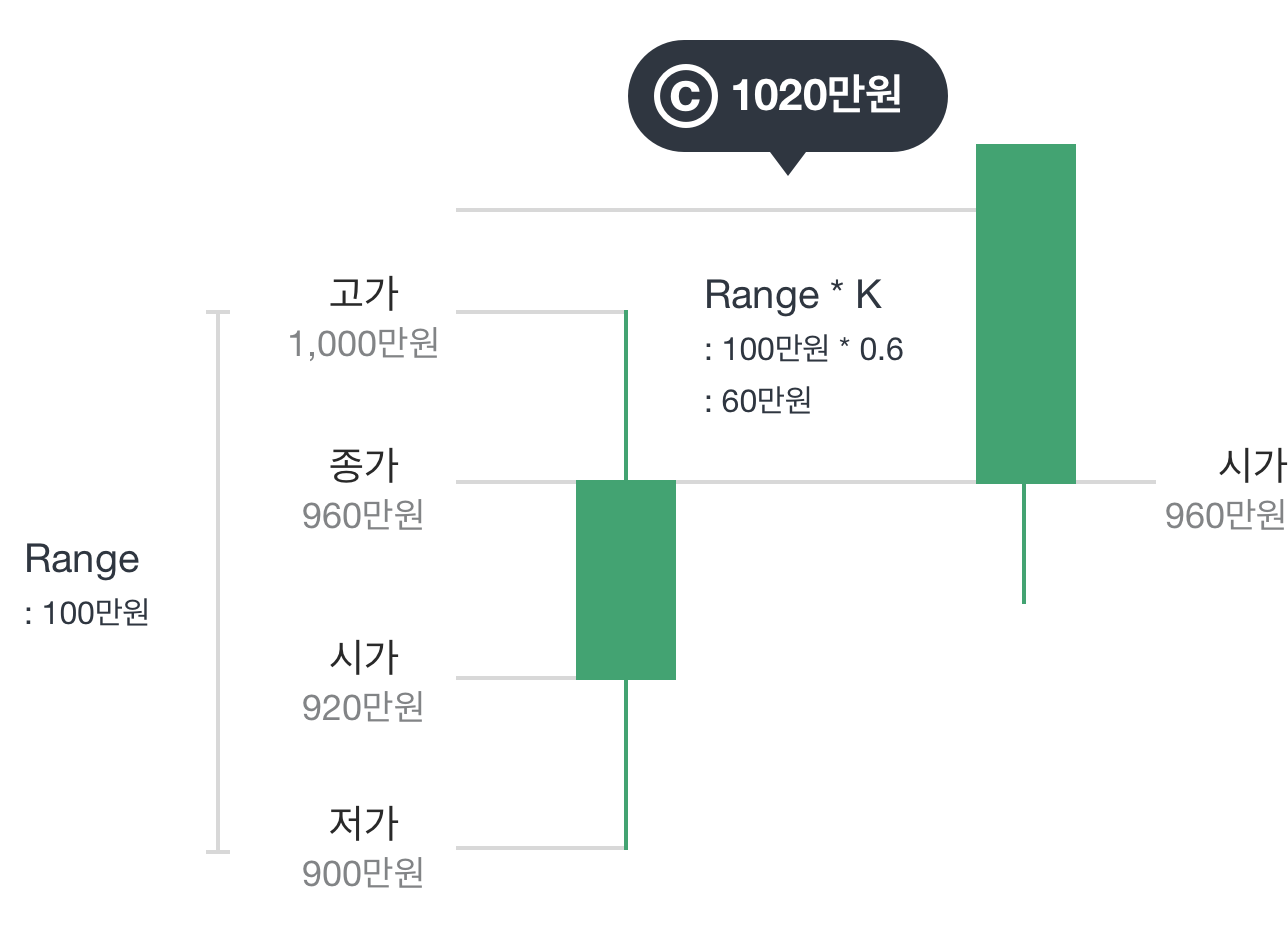
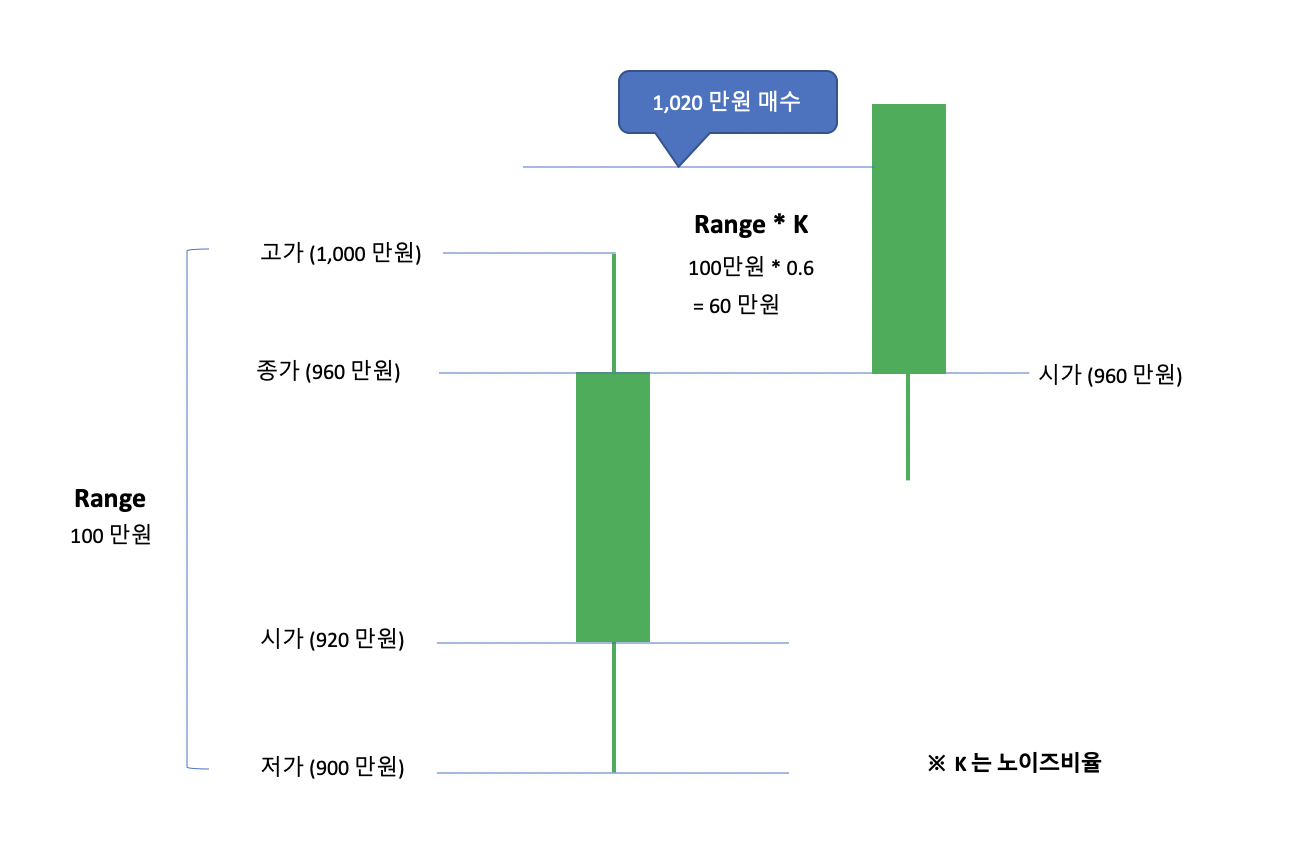
rebuilding site 2020년 7월 19일 일요일 14시 12분 38초 JST

diff --git a/post/indicator_vbi/index.html b/post/indicator_vbi/index.html
@@ -60,7 +60,7 @@
   "headline": "변동성돌파지표(프리미엄사용자무료)",
   "description" : "변동성 돌파 지표를 프리미엄 사용자에 한해서 무료로 배포합니다.\n변동성 돌파 지표란 전설적인 트레이더 래리 윌리엄스(Larry R. Williams)의 변동성 돌파 전략을 기본으로 개발한 지표입니다.\n",
   "inLanguage" : "ko",
-  "wordCount":  253 ,
+  "wordCount":  316 ,
   "datePublished" : "2020-07-12T16:04:56",
   "dateModified" : "2020-07-12T16:04:56",
   "image" : "https:\/\/tvextbot.github.io\/img\/avatar-icon.png",
@@ -329,27 +329,32 @@ if (!doNotTrack) {
     <h5 class="alert-heading"><i class="fa fa-comment"></i> 유의사항</h5>
     지표 사용에 의해서 발생한 매매손실에 대해서는 일체 책임을 지지 않으니 유의하여 주시면 감사하겠습니다.
 </div>
-<p>변동성 돌파 전략은 일일 단위로 일정 수준 이상의 범위를 뛰어넘는 강한 상승세를 돌파 신호로 상승하는 추세를 따라가며 일 단위로 빠르게 수익을 실현하는 단기매매 전략입니다.<br><br>
+<p>변동성 돌파 전략은 일일 단위로 일정 수준 이상의 범위를 뛰어넘는 강한 상승세를 돌파 신호로 상승하는 추세를 따라가며 일 단위로 빠르게 수익을 실현하는 <span class="text-danger h5"><strong>단기매매 전략</strong></span>입니다.<br><br>
 변동성 돌파 전략은 다음과 같은 간단한 규칙으로 작동합니다.<br><br>
-① 전날의 일봉 기준 range(= 전일 고가 – 전일 저가)를 계산한다.<br>
-② 당일 장중 가격이 당일시가 + (전일 range 값 * K)을 넘을 경우 ‘매수’한다. (K = 자체조정값)<br>
-③ 익일 시가 기준으로 지정가 &lsquo;매도&rsquo;한다.<br>
+① 전날의 일봉 기준 range(= 전일 고가 – 전일 저가)를 계산합니다.<br>
+② 당일 장중 가격이 당일시가 + (전일 range 값 * K)을 넘을 경우 매수 합니다. (K = 노이즈비율)<br>
+③ 익일 시가 기준으로 지정가 매도를 합니다.<br>
 
 
 <figure  itemprop="associatedMedia" itemscope itemtype="http://schema.org/ImageObject">
-    <a href="/img/vbs_strategy1.png"  itemprop="contentUrl"> 
+    <a href="/img/vbs_strategy.png"  itemprop="contentUrl"> 
         <img itemprop="thumbnail"
-            src="/img/vbs_strategy1.png"
+            src="/img/vbs_strategy.png"
             
             />
     </a>
     
-</figure>
-<span class="text-info font-weight-bold">
+</figure></p>
+<h5><span class="text-info">
 왼쪽이 전일 봉, 오른쪽이 당일 봉입니다. <br>
-먼저 range는 전일 고가-전일 저가=1,000만원-900만원=100만원이고, 당일 매수 가격은 960만원+100만원*0.6=1,020만원입니다.
-따라서, 만약 익일 시가가 1,100만원 일 경우 (1,100/1,020)-1=7.84%만큼 버는 것이고, 1,000만원 일 경우 (1,000/1,020)-1=-1.96%만큼 잃는 것입니다.<br>
-</span></p>
+먼저 range는 전일 고가에서 전일 저가를 뺀 값(1,000만원-900만원=100만원)이고, 당일 매수 가격은 시가에서 (range * K값)을 더한 값(960만원+100만원*0.6=1,020만원)입니다.
+따라서, 만약 익일 시가가 1,100만원 일 경우는 (1,100/1,020)-1 = 7.84% 만큼 버는 것이고, 1,000만원 일 경우 (1,000/1,020)-1 = -1.96% 만큼 잃는 것입니다.   
+</span></h5>
+<h5><span class="text-danger">
+    ※ K값(노이즈비율)은 시장과 종목의 추세 수준이 변화하는것에 대응해 실시간으로 변동합니다.<br>
+    가격이 한방향으로 지속적으로 움직인다(추세적)면 노이즈가 적으며 가격이 횡보를 하면(비추세적) 노이즈가 많다는 의미입니다.<br>
+    일정기간의 평균 노이즈비율을 계산하여 적용하기 때문에 K값이 높으면 비추세로 판단하여 진입시점을 높게 잡으며 K값이 낮으면 추세라고 판단하여 진입시점을 낮게 잡기 때문에 빨리 추세를 탈수 있습니다.
+</span></h5>
 <h3 id="백테스트">백테스트</h3>
 <p>아래의 백테스트 결과는 2020년 바이빗 거래소 일봉기준입니다.
 
